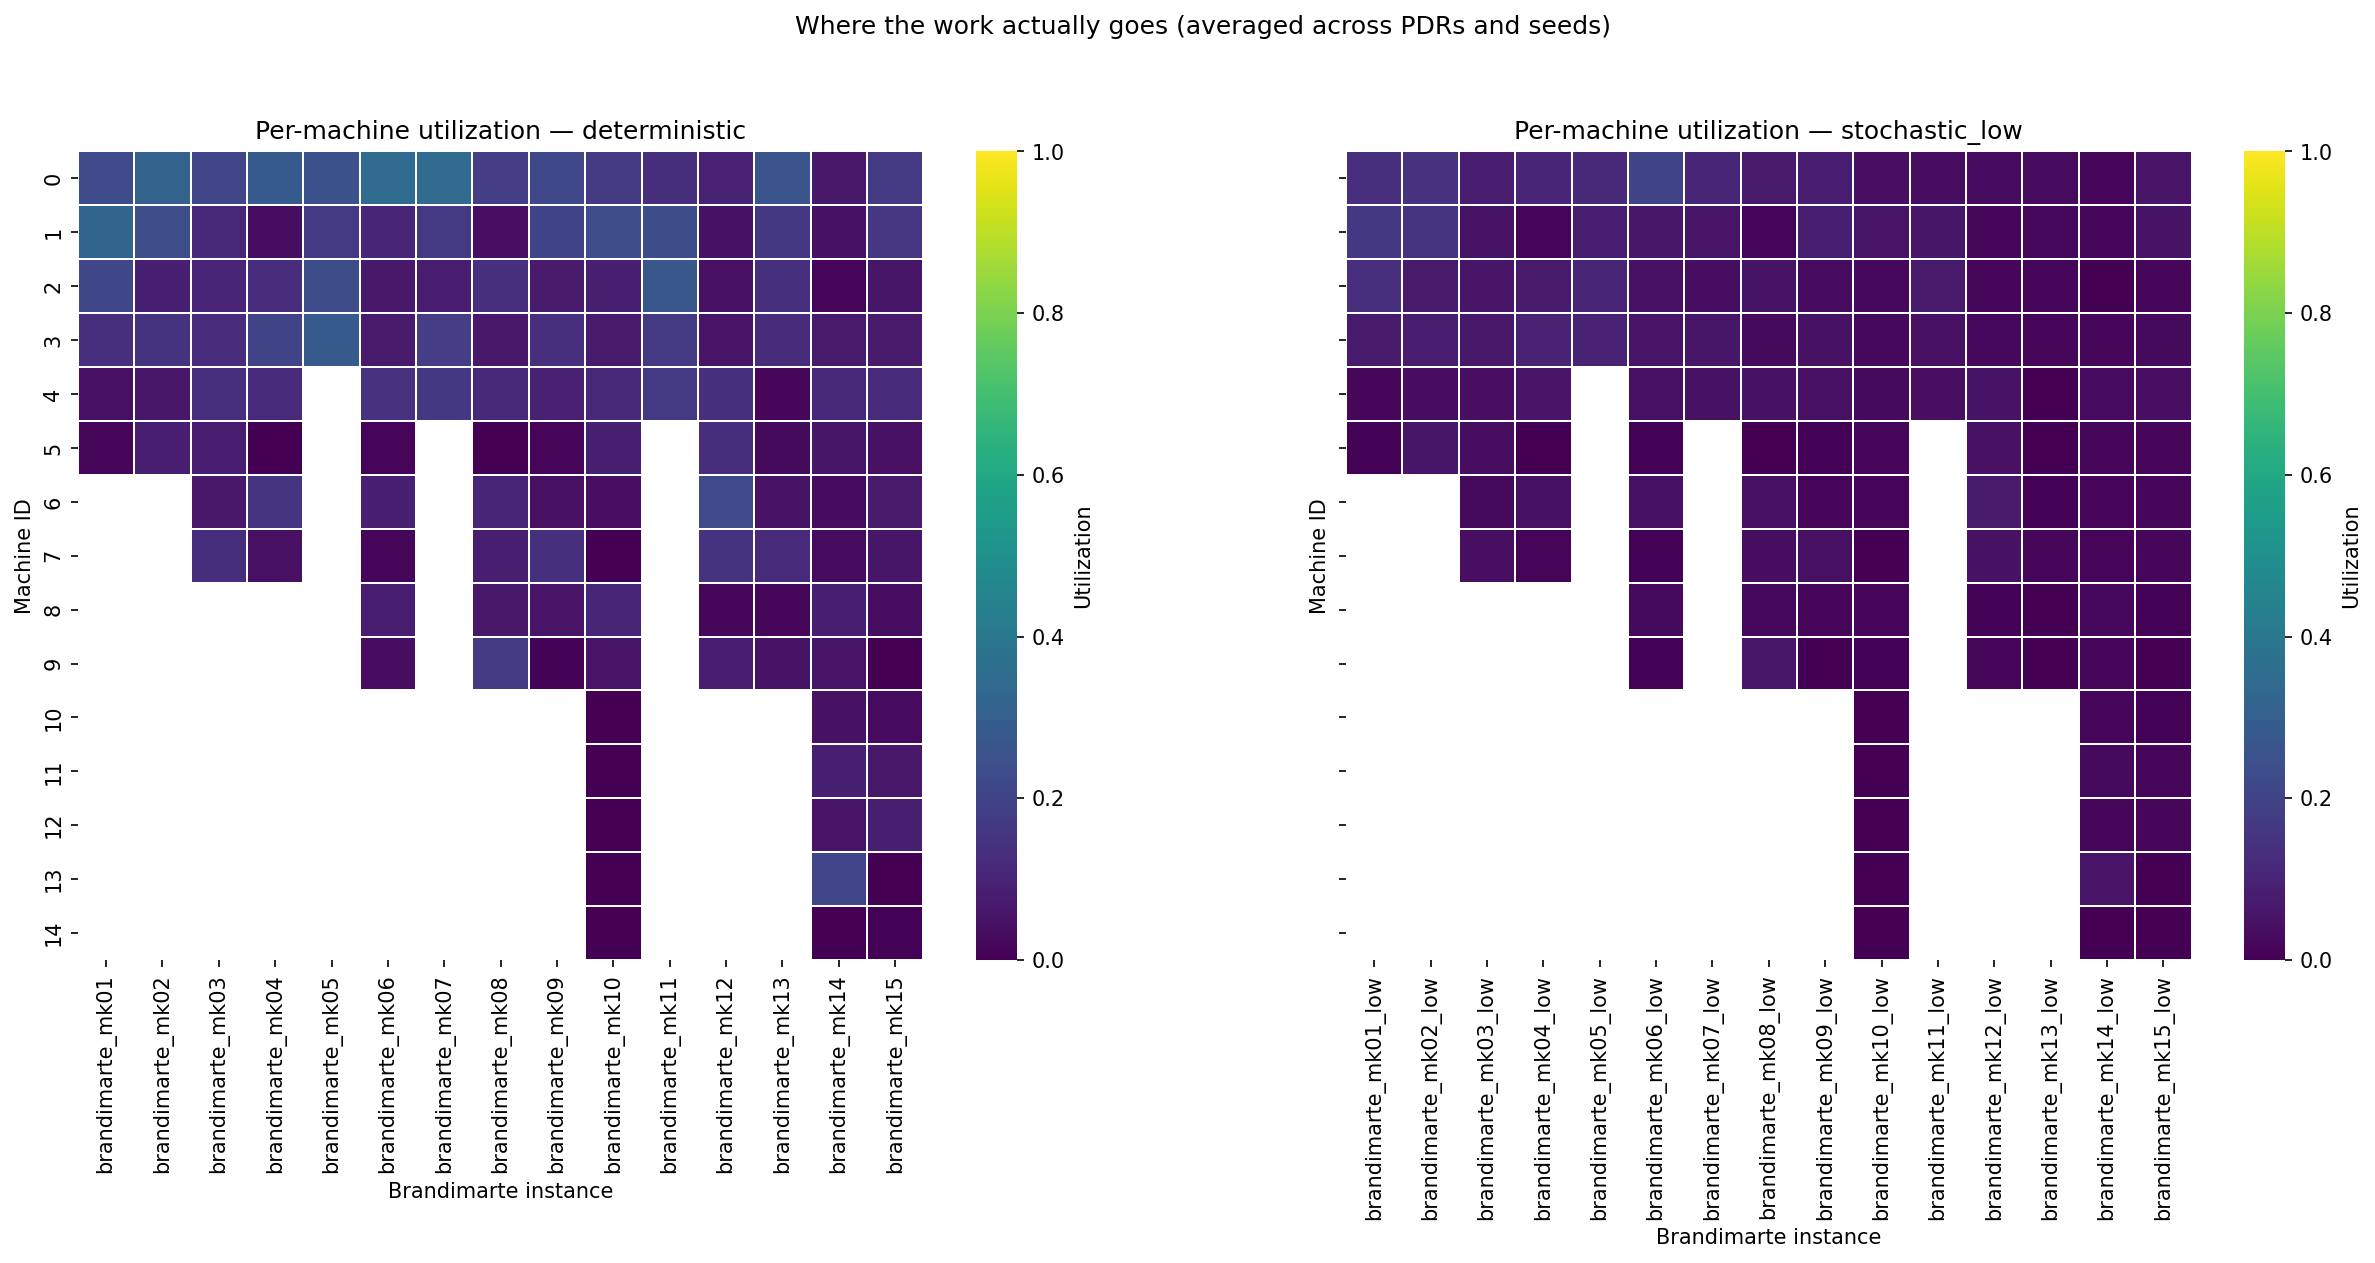
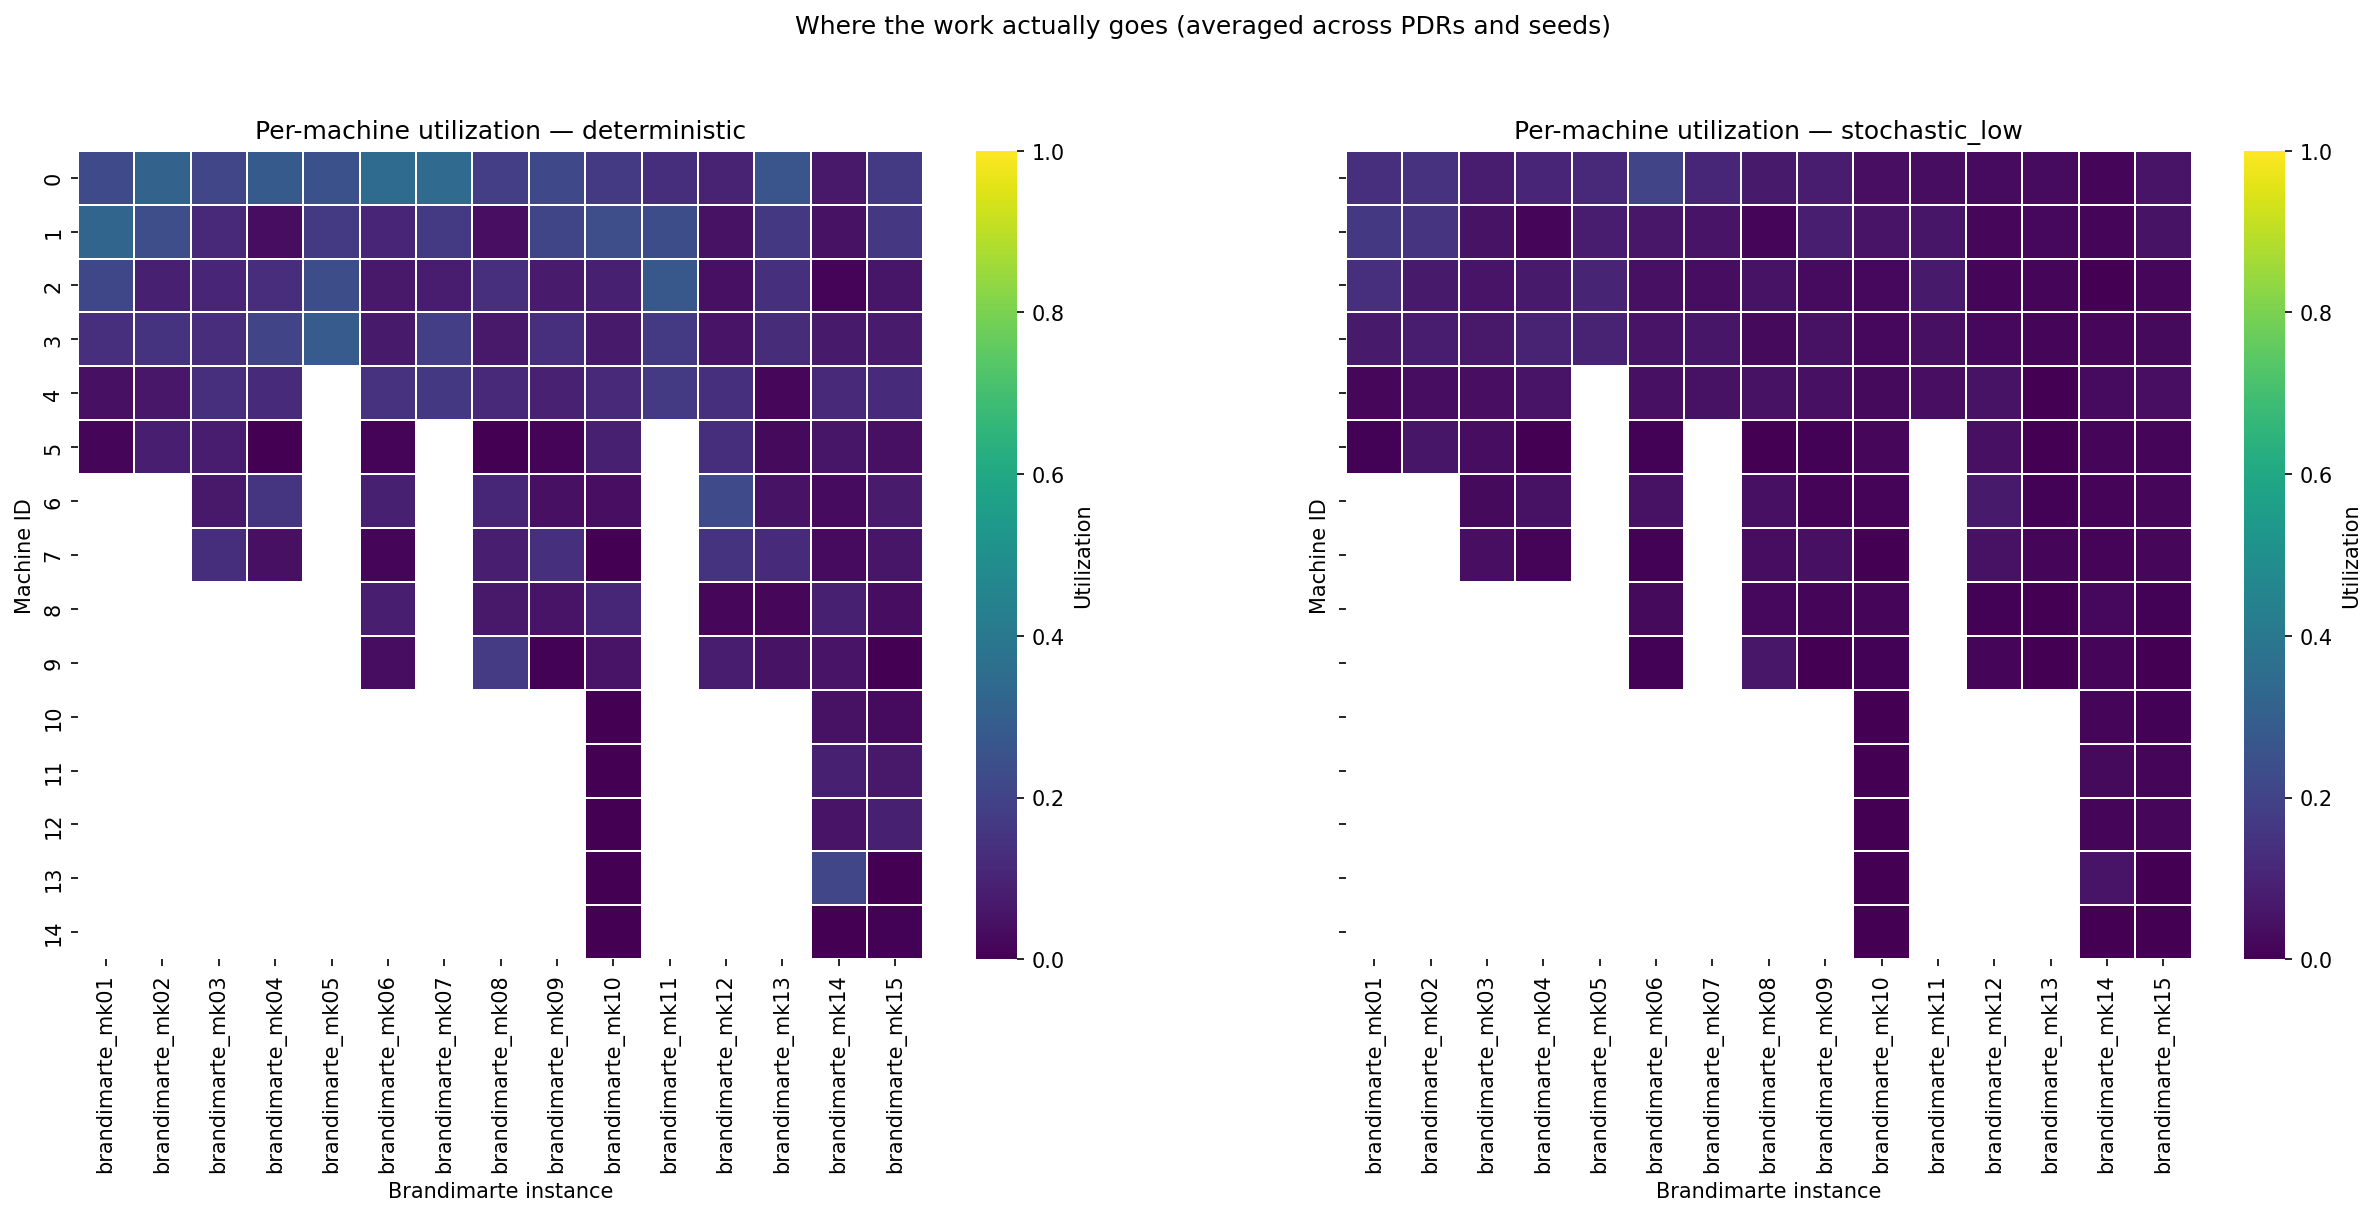
update viz

diff --git a/results/analysis.py b/results/analysis.py
@@ -67,6 +67,32 @@ def _instance_order(col) -> list:
     return sorted(vals, key=_key)
 
 
+def _strip_regime_suffix(df: pd.DataFrame) -> pd.DataFrame:
+    """Strip stochastic-tag suffixes from instance names in-place (returns copy).
+    Compares det vs stoch instance sets and auto-detects the trailing suffix
+    (e.g. '_low', '_high') that the stochastic file appends.
+    Safe to call when only one regime is present — returns unchanged."""
+    import re
+    if "regime" not in df.columns:
+        return df
+    det_insts = set(df.loc[df["regime"] == "deterministic", "instance"].astype(str).unique())
+    sto_insts = set(df.loc[df["regime"] == "stochastic_low", "instance"].astype(str).unique())
+    if not (det_insts and sto_insts and det_insts != sto_insts):
+        return df
+    suffix = None
+    for inst in sorted(sto_insts):
+        m = re.match(r"^(.+?)(_[^_0-9][^_]*)$", inst)
+        if m and m.group(1) in det_insts:
+            suffix = m.group(2)
+            break
+    if not suffix:
+        return df
+    df = df.copy()
+    df["instance"] = df["instance"].astype(str).apply(
+        lambda x: x[: -len(suffix)] if x.endswith(suffix) else x)
+    return df
+
+
 # ---------------------------------------------------------------------------
 # Data loading
 # ---------------------------------------------------------------------------
@@ -84,6 +110,8 @@ def load_data(det_path: str | None, stoch_path: str | None, combined: str | None
         det = pd.read_csv(det_path); det["regime"] = "deterministic"
         sto = pd.read_csv(stoch_path); sto["regime"] = "stochastic_low"
         df = pd.concat([det, sto], ignore_index=True)
+
+    df = _strip_regime_suffix(df)
 
     # Order instances by trailing number — works for any naming convention
     df["instance"] = pd.Categorical(
@@ -113,6 +141,7 @@ def merge_results(df: pd.DataFrame, det_results: str | None, stoch_results: str 
         return df
 
     results = pd.concat(pieces, ignore_index=True)
+    results = _strip_regime_suffix(results)   # align 'brandimarte_mk01_low' → 'brandimarte_mk01'
     join_keys = ["timestamp", "instance", "rule", "seed", "regime"]
     join_keys = [k for k in join_keys if k in df.columns and k in results.columns]
     # Avoid clobbering — drop overlapping non-key columns from the right side
